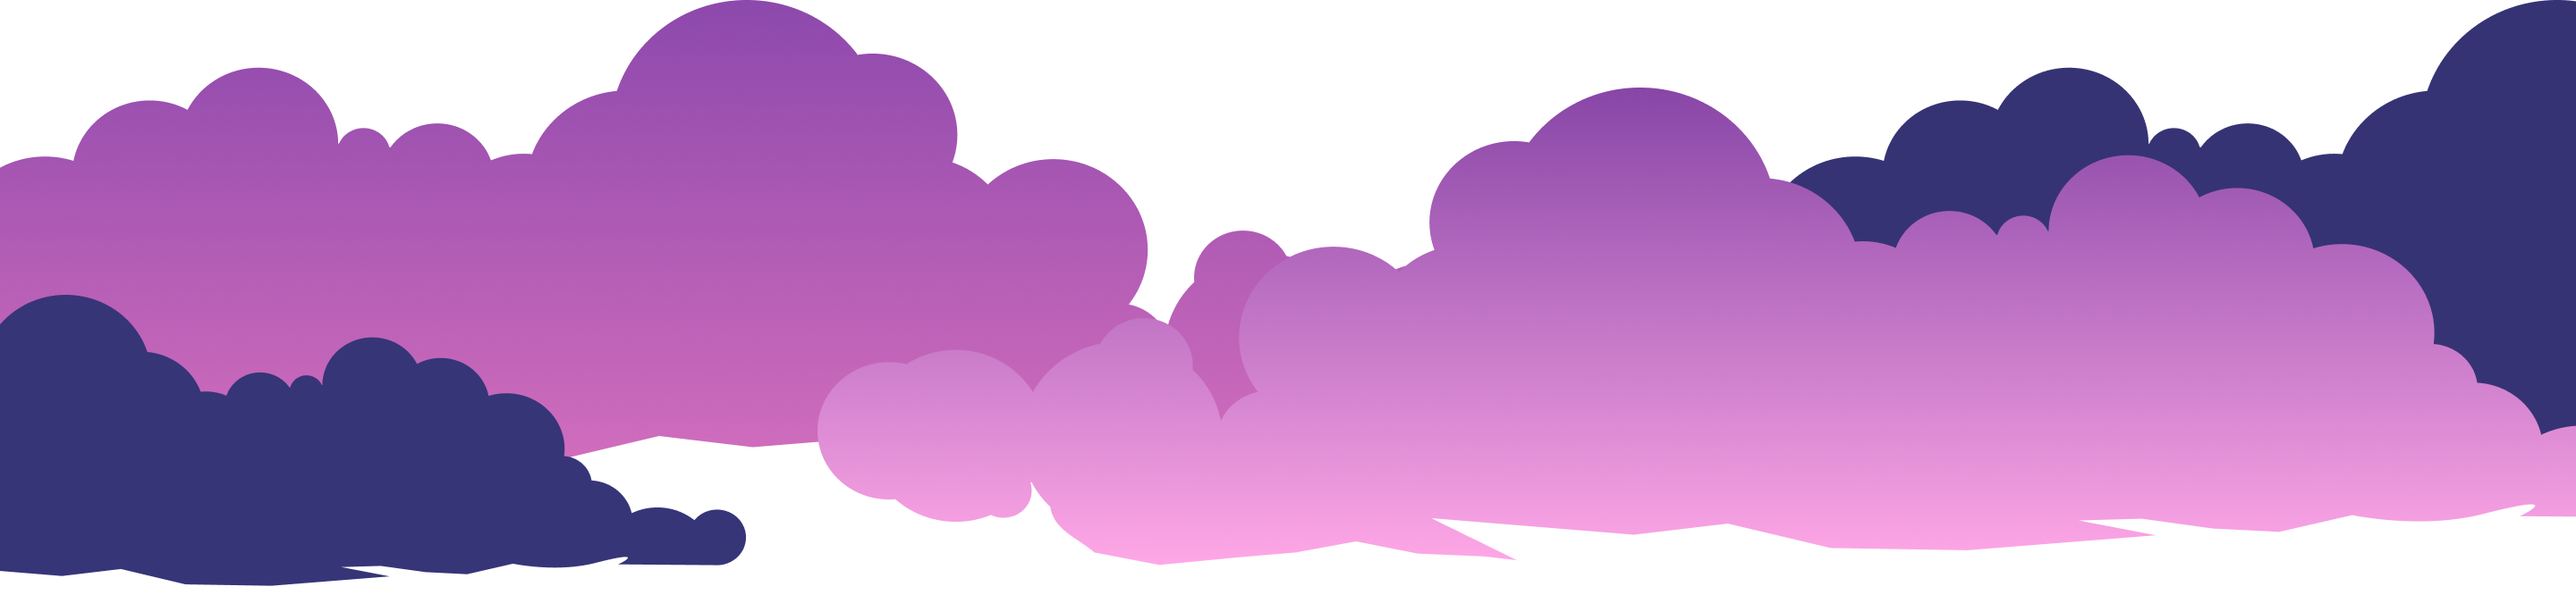
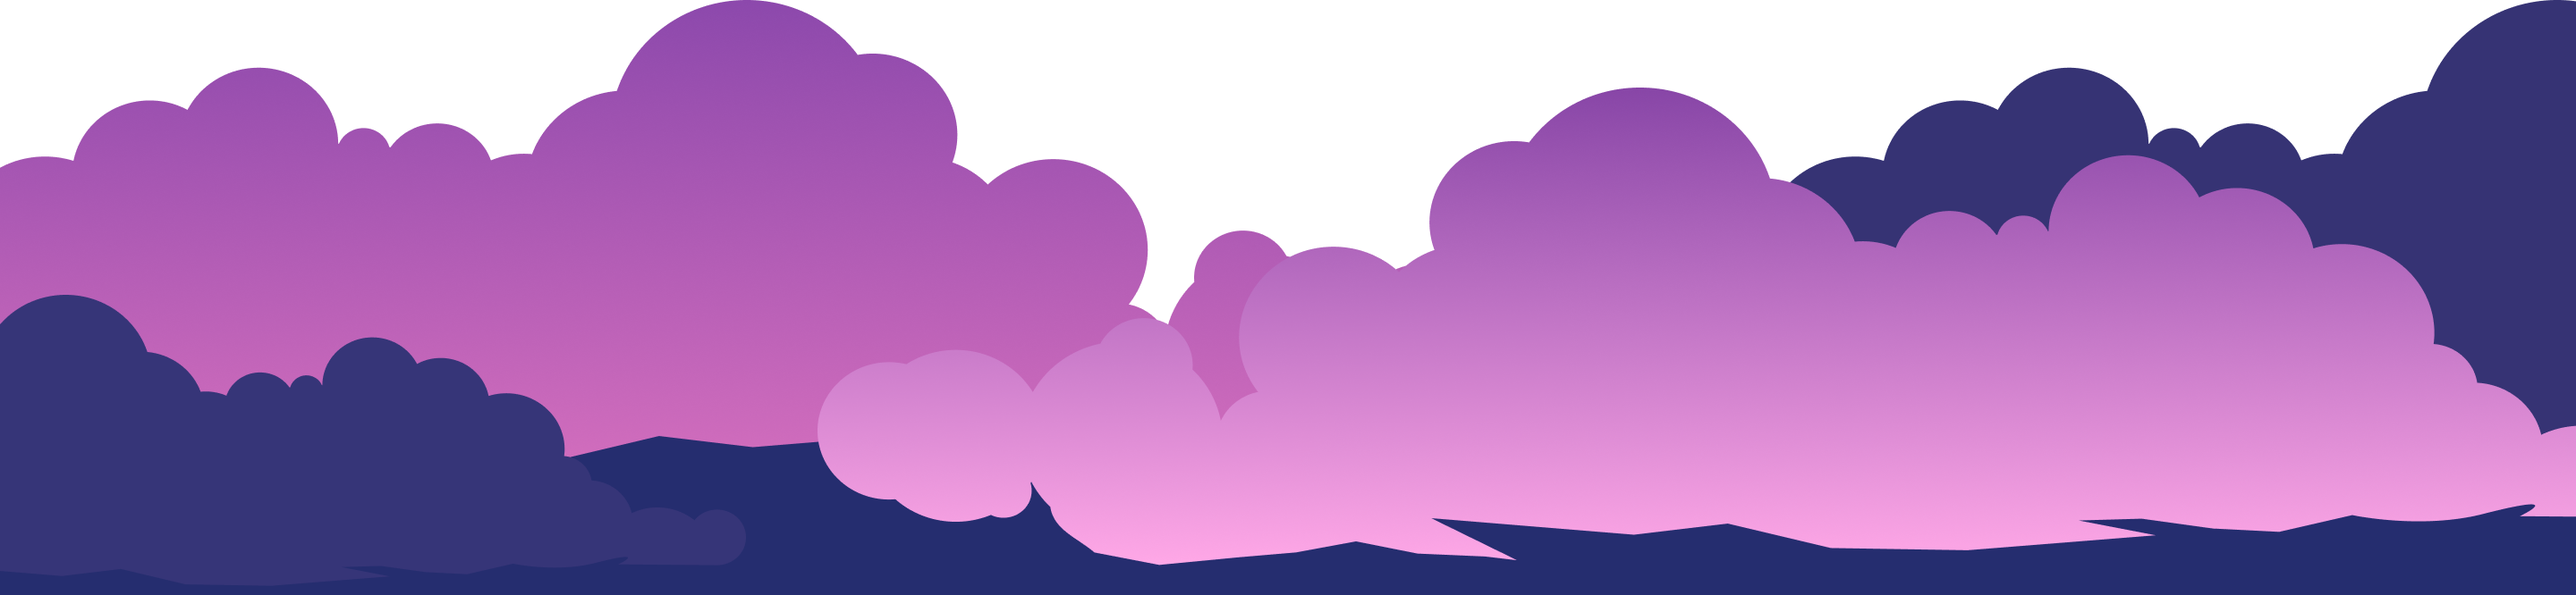
Updates

Changed region(s): [[0.0, 0.7207, 1.0, 1.0]]

diff --git a/src/components/blocks/feature.js b/src/components/blocks/feature.js
@@ -6,11 +6,11 @@ const Feature = ({ block }) => (
       'dark-blue'}`}
   >
     <div
-      className="container mx-auto py-40 relative z-10"
+      className="container flex mx-auto py-40 relative z-10"
       style={{ minHeight: block.height || 500 }}
     >
       <div
-        className={`flex justify-between ${
+        className={`flex flex-1 justify-between ${
           block.orientation === 'reverse' ? 'flex-row-reverse' : 'flex-row'
         }`}
       >
@@ -23,13 +23,27 @@ const Feature = ({ block }) => (
             />
           )}
         </div>
-        <div className="flex flex-col flex-1 text-white justify-center">
+        <div
+          className={`flex flex-col flex-1 text-white justify-center ${
+            block.orientation === 'reverse' ? 'items-end' : 'items-start'
+          }`}
+        >
           <div
-            className="flex flex-col flex-1 text-white justify-center"
+            className="flex flex-col flex-1 text-white justify-center items-start"
             style={{ maxWidth: 400 }}
           >
             <h1>{block.title}</h1>
             <div dangerouslySetInnerHTML={{ __html: block.content }} />
+            {block.button && (
+              <a
+                target="_blank"
+                rel="noopener noreferrer"
+                href={block.button.url}
+                className="button mt-10 bg-white text-black"
+              >
+                {block.button.text}
+              </a>
+            )}
           </div>
         </div>
       </div>
@@ -39,6 +53,15 @@ const Feature = ({ block }) => (
         alt={block.title}
         className="background-image"
         srcset={block.background_image.childImageSharp.fluid.srcSet}
+        style={
+          block.variant === 'bottom'
+            ? {
+                bottom: 0,
+                top: 'auto',
+                height: 'auto',
+              }
+            : {}
+        }
       />
     )}
   </section>

diff --git a/gatsby-config.js b/gatsby-config.js
@@ -9,6 +9,23 @@ module.exports = {
   },
   plugins: [
     {
+      resolve: `gatsby-transformer-remark`,
+      options: {
+        plugins: [
+          `@forestryio/gatsby-remark-normalize-paths`,
+          {
+            resolve: `gatsby-remark-images`,
+            options: {
+              maxWidth: 800,
+            },
+          },
+          'gatsby-remark-copy-linked-files',
+        ],
+      },
+    },
+    `gatsby-transformer-sharp`,
+    `gatsby-plugin-sharp`,
+    {
       resolve: `gatsby-source-filesystem`,
       options: {
         path: `${__dirname}/src/pages`,
@@ -29,23 +46,7 @@ module.exports = {
         name: 'images',
       },
     },
-    {
-      resolve: `gatsby-transformer-remark`,
-      options: {
-        plugins: [
-          `@forestryio/gatsby-remark-normalize-paths`,
-          {
-            resolve: `gatsby-remark-images`,
-            options: {
-              maxWidth: 800,
-            },
-          },
-          'gatsby-remark-copy-linked-files',
-        ],
-      },
-    },
-    `gatsby-transformer-sharp`,
-    `gatsby-plugin-sharp`,
+
     {
       resolve: `gatsby-plugin-google-analytics`,
       options: {

diff --git a/src/components/blocks/cta.js b/src/components/blocks/cta.js
@@ -1,7 +1,7 @@
 import React from 'react'
 
 const CTA = ({ block }) => (
-  <section className="container">
+  <section className="container mx-auto">
     <div className="my-20 text-white max-w-md mx-auto text-center">
       <h1 className="mb-6">{block.title}</h1>
       {block.subtitle && <p>{block.subtitle}</p>}

diff --git a/src/components/blocks/image.js b/src/components/blocks/image.js
@@ -8,7 +8,6 @@ const Image = ({ block }) => (
       style={{ height: 'auto', position: 'static' }}
       srcset={block.image.childImageSharp.fluid.srcSet}
     />
-    )}
   </section>
 )
 

diff --git a/src/templates/blocks.js b/src/templates/blocks.js
@@ -81,6 +81,7 @@ export const pageQuery = graphql`
           subtitle
           content
           height
+          variant
           orientation
           background
           button {

diff --git a/src/pages/index.md b/src/pages/index.md
@@ -21,6 +21,9 @@ blocks:
       Lorem ipsum dolor sit amet, consectetur adipiscing elit. Fusce at vehicula
       lectus, quis ullamcorper augue. Curabitur vel sapien pharetra, fermentum elit
       ut, condimentum est.
+    button:
+      url: https://google.ca
+      text: Learn more
   - template: block__image
     component: image
     image: '/src/images/ruins.png'
@@ -34,6 +37,9 @@ blocks:
       lectus, quis ullamcorper augue. Curabitur vel sapien pharetra, fermentum elit
       ut, condimentum est.
     image: '/src/images/shield.png'
+    button:
+      url: https://google.ca
+      text: Learn more
   - template: block__image
     component: image
     image: '/src/images/clouds.png'
@@ -42,13 +48,17 @@ blocks:
     background: blue
     background_image: '/src/images/mountain.png'
     orientation: normal
-    height: 750
+    height: 900
+    variant: bottom
     title: Get Involved
     content:
       Lorem ipsum dolor sit amet, consectetur adipiscing elit. Fusce at vehicula
       lectus, quis ullamcorper augue. Curabitur vel sapien pharetra, fermentum elit
       ut, condimentum est.
     image: ''
+    button:
+      url: https://google.ca
+      text: Learn more
   - template: block__cta
     component: cta
     background: dark-blue

diff --git a/src/pages/about.md b/src/pages/about.md
@@ -10,7 +10,7 @@ blocks:
     subtitle: ''
   - template: block__feature
     component: feature
-    image: '/src/images/note.png'
+    image: '/src/images/sword.png'
     background: primary
     orientation: normal
     title: Join the quest
@@ -40,7 +40,7 @@ blocks:
     image: ''
   - template: block__feature
     component: feature
-    image: '/src/images/note.png'
+    image: '/src/images/sword.png'
     background: primary
     orientation: normal
     title: Join the quest

diff --git a/src/pages/impact.md b/src/pages/impact.md
@@ -24,7 +24,7 @@ blocks:
       image: ''
   - template: block__feature
     component: feature
-    image: '/src/images/note.png'
+    image: '/src/images/sword.png'
     background: primary
     orientation: normal
     title: Join the quest
@@ -54,7 +54,7 @@ blocks:
     image: ''
   - template: block__feature
     component: feature
-    image: '/src/images/note.png'
+    image: '/src/images/sword.png'
     background: primary
     orientation: normal
     title: Join the quest

diff --git a/src/pages/team.md b/src/pages/team.md
@@ -9,7 +9,7 @@ blocks:
     subtitle: ''
   - template: block__feature
     component: feature
-    image: '/src/images/note.png'
+    image: '/src/images/sword.png'
     background: primary
     orientation: normal
     title: Join the quest
@@ -39,7 +39,7 @@ blocks:
     image: ''
   - template: block__feature
     component: feature
-    image: '/src/images/note.png'
+    image: '/src/images/sword.png'
     background: primary
     orientation: normal
     title: Join the quest

diff --git a/src/pages/get-involved.md b/src/pages/get-involved.md
@@ -9,7 +9,7 @@ blocks:
     subtitle: ''
   - template: block__feature
     component: feature
-    image: '/src/images/note.png'
+    image: '/src/images/sword.png'
     background: primary
     orientation: normal
     title: Join the quest
